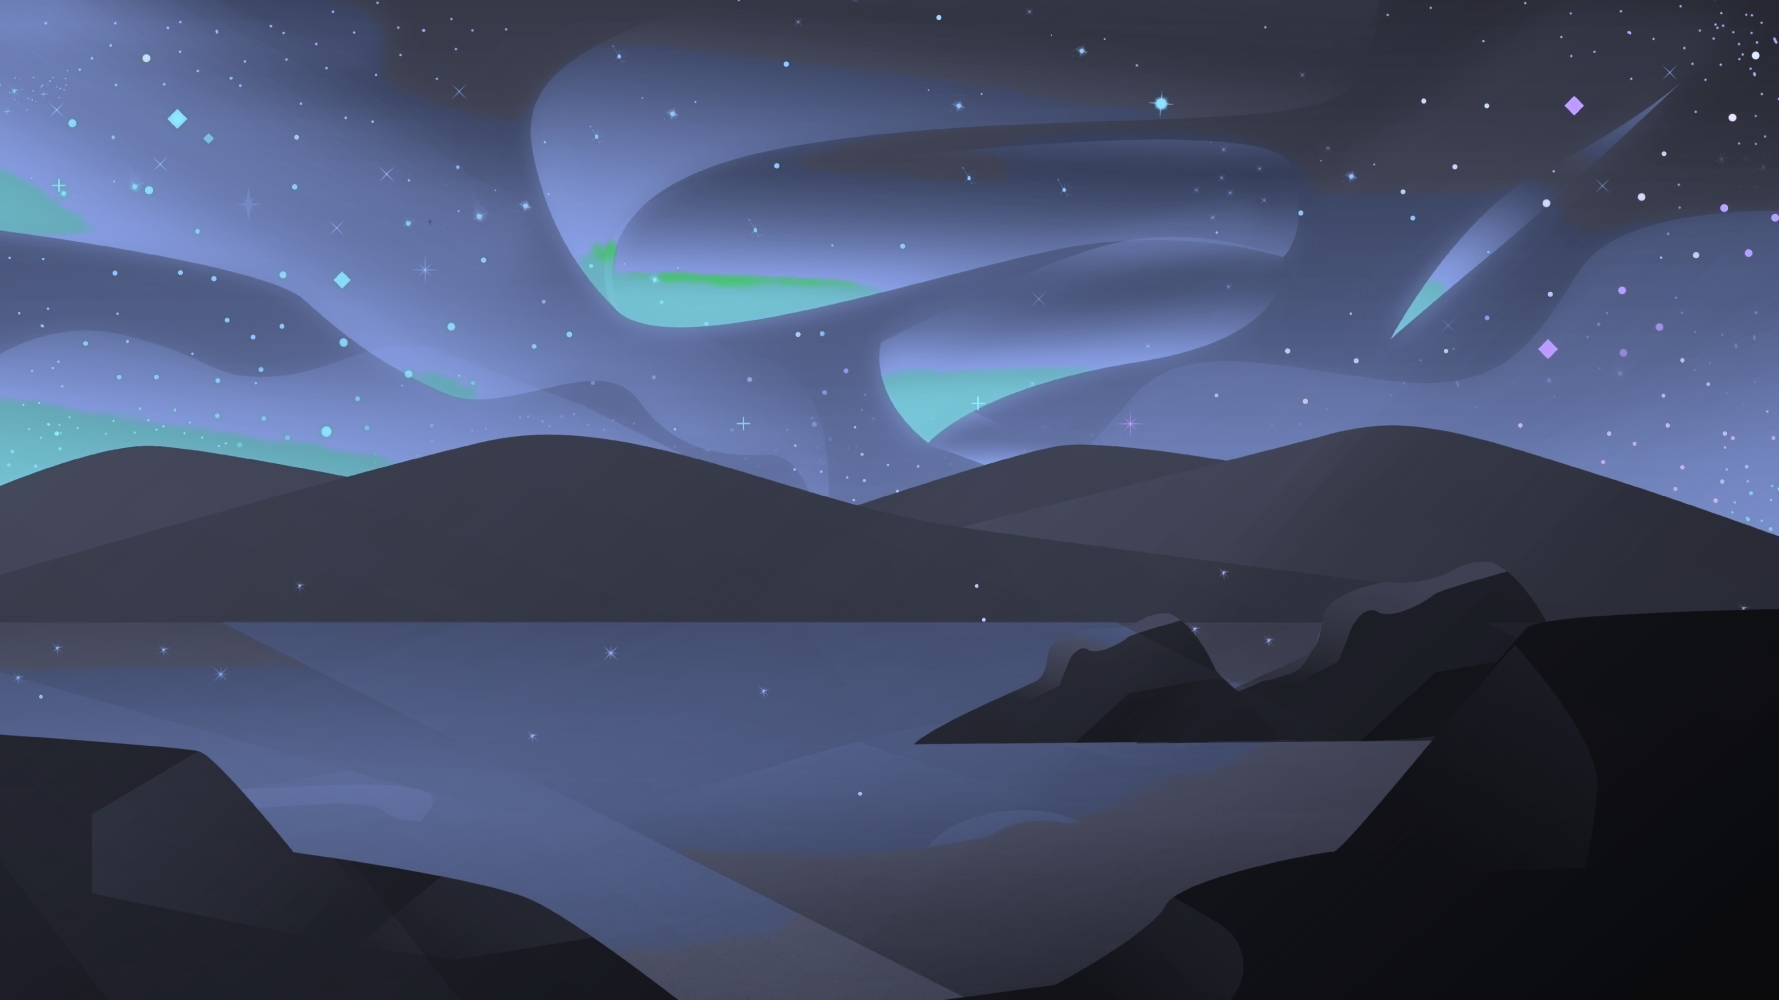
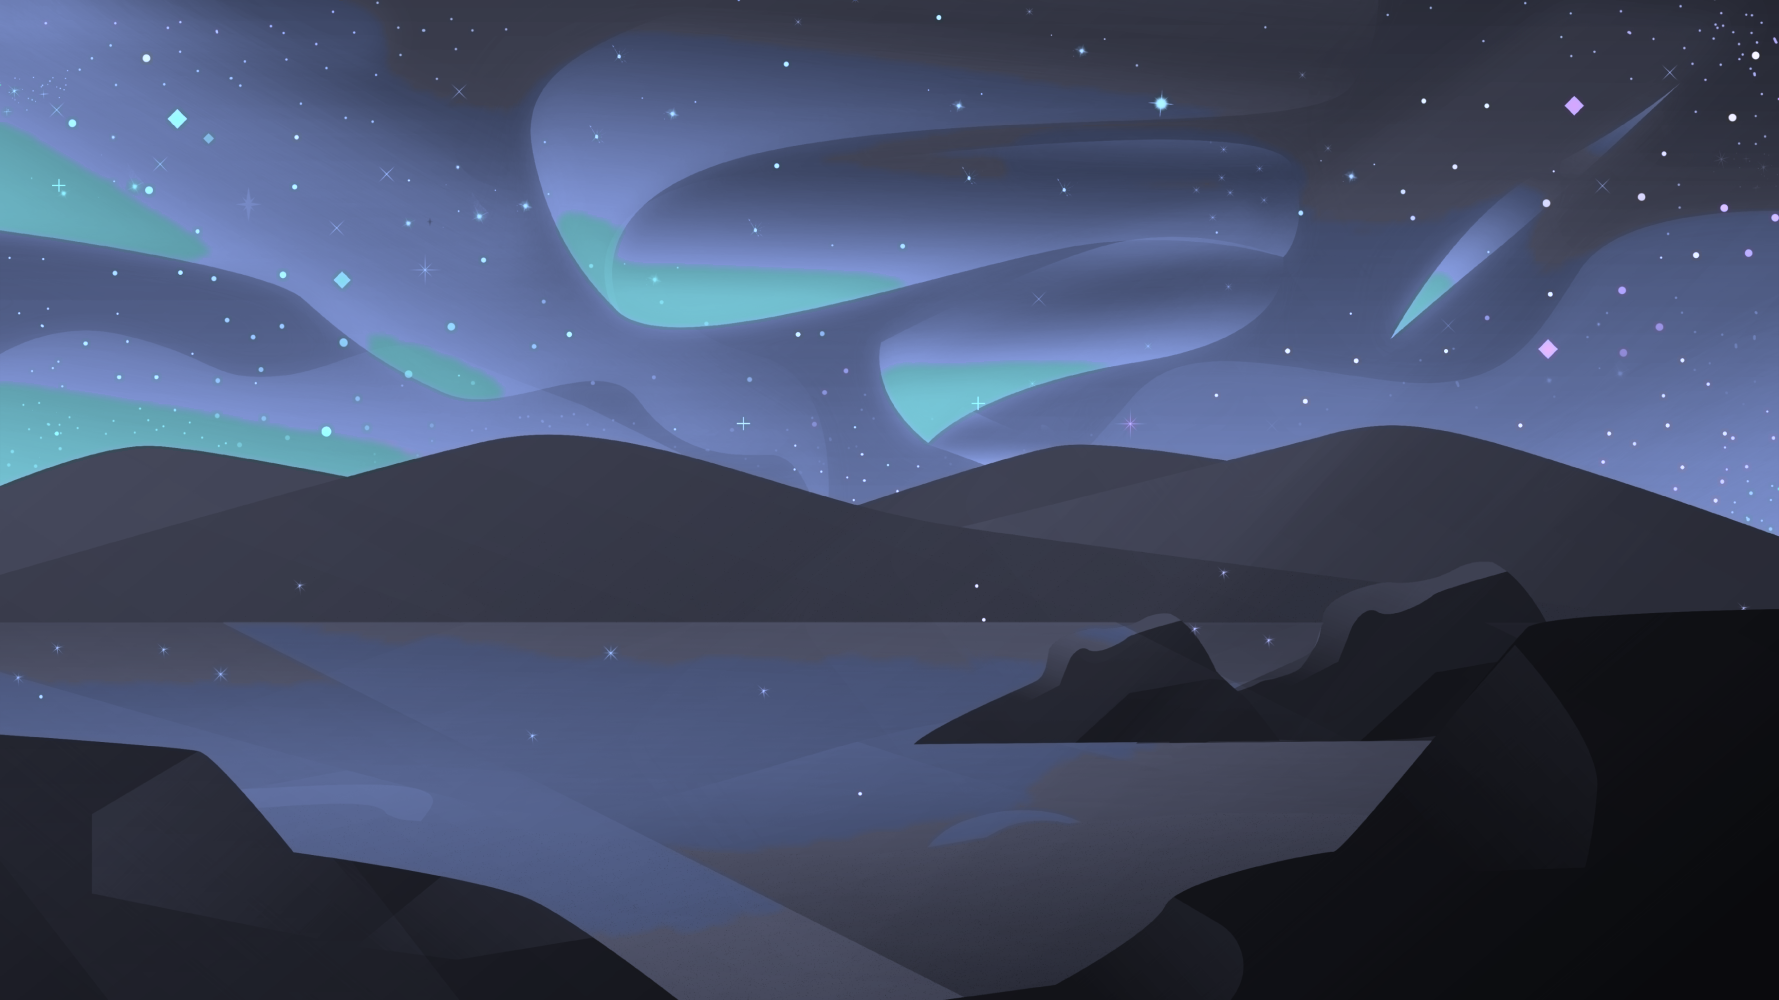
Config modified, themes added

diff --git a/converter.py b/converter.py
@@ -29,13 +29,16 @@ def get_filenames():
     return filenames
 
 
-def get_color(src_color, colors):
+def get_color(src_color, colors, quadratic_color_distance=False):
     src_color = src_color[:3]
     sr, sg, sb = src_color
     colors_diffs = []
     for dst_color in colors:
         dr, dg, db = dst_color
-        dist = sqrt(abs(sr - dr) ** 2 + abs(sg - dg) ** 2 + abs(sb - db) ** 2)
+        if quadratic_color_distance:
+            dist = sqrt(abs(sr - dr) ** 2 + abs(sg - dg) ** 2 + abs(sb - db) ** 2)
+        else:
+            dist = abs(sr - dr) + abs(sg - dg) + abs(sb - db)
         colors_diffs.append((dist, dst_color))
     fit_color = min(colors_diffs)[1]
     return fit_color
@@ -46,14 +49,16 @@ def get_brightness(color):
     return 0.2126 * r + 0.7152 * g + 0.0722 * b
 
 
-def tweak_pixel_brightness(src_color, fit_color):
+def tweak_pixel_brightness(src_color, fit_color, brightness_steps=False):
     src_color = src_color[:3]
     sr, sg, sb = src_color
     rr, rg, rb = fit_color
     src_luminance = get_brightness((sr, sg, sb))
     res_luminance = get_brightness((rr, rg, rb))
-    max_factor = 255 / max(rr, rg, rb)
-    factor = min(src_luminance / res_luminance, max_factor)
+    factor = src_luminance / res_luminance
+    if brightness_steps:
+        factor = round(factor, 1)
+
     rr = round(rr * factor)
     rg = round(rg * factor)
     rb = round(rb * factor)
@@ -63,7 +68,7 @@ def tweak_pixel_brightness(src_color, fit_color):
     return rr, rg, rb
 
 
-def tweak_image_brightness(img, result_img, pixels, res_pixels, filename='current image'):
+def tweak_image_brightness(img, result_img, pixels, res_pixels, filename='current image', brightness_steps=False):
     last_msg_val = 0
     for i in range(img.size[0]):
         progress_val = round((i + 1) / img.size[0] * 100)
@@ -73,7 +78,7 @@ def tweak_image_brightness(img, result_img, pixels, res_pixels, filename='curren
         for j in range(img.size[1]):
             src_color = pixels[i, j]
             fit_color = res_pixels[i, j]
-            res_pixels[i, j] = tweak_pixel_brightness(src_color, fit_color)
+            res_pixels[i, j] = tweak_pixel_brightness(src_color, fit_color, brightness_steps=brightness_steps)
     return result_img
 
 
@@ -118,7 +123,7 @@ def apply_blur(img, blur_map, blur_radius):
     return img
 
 
-def match_colors(img, pixels, colors, filename='current image'):
+def match_colors(img, pixels, colors, filename='current image', quadratic_color_distance=False):
     result_img = Image.new('RGB', img.size)
     res_pixels = result_img.load()
     last_msg_val = 0
@@ -129,24 +134,42 @@ def match_colors(img, pixels, colors, filename='current image'):
             print(f'Color matching for {filename} is {progress_val}% done')
         for j in range(img.size[1]):
             src_color = pixels[i, j]
-            res_pixels[i, j] = get_color(src_color, colors)
+            res_pixels[i, j] = get_color(src_color, colors, quadratic_color_distance=quadratic_color_distance)
     return result_img, res_pixels
 
 
-def process_image(filename, colors, palette=None, blur=True, blur_radius=3, blur_offset=10, debug=True):
+def process_image(filename,
+                  colors,
+                  palette=None,
+                  brightness_tweak=True,
+                  quadratic_color_distance=False,
+                  blur=True,
+                  blur_radius=3,
+                  blur_offset=10,
+                  brightness_steps=False,
+                  debug=True):
+    print('=' * 20)
     print(f'Image {filename} processing started!')
+    print(f'palette: {palette}')
+    print(f'brightness tweak: {brightness_tweak}')
+    print(f'quadratic color distance: {quadratic_color_distance}')
+    print(f'blur: {blur}')
     if blur:
-        print(f'(palette: {palette}, blur: {blur}, blur_radius: {blur_radius}, blur_offset: {blur_offset}, '
-              f'output: /{OUTPUT}, debug: {debug})')
-    else:
-        print(f'(palette: {palette}, blur: {blur}, output: /{OUTPUT}, debug: {debug})')
+        print(f'blur radius: {blur_radius}')
+        print(f'blur offset: {blur_offset}')
+    print(f'brightness steps: {brightness_steps}')
+    print(f'input: /{INPUT}')
+    print(f'output: /{OUTPUT}')
+    print(f'debug: {debug}')
+    print('=' * 20)
 
     img_file = Image.open(f'{INPUT}/{filename}')
     img = Image.new("RGB", img_file.size, (255, 255, 255))
     img.paste(img_file)  # 3 is the alpha channel
     pixels = img.load()
 
-    result_img, res_pixels = match_colors(img, pixels, colors, filename=filename)
+    result_img, res_pixels = match_colors(img, pixels, colors, filename=filename,
+                                          quadratic_color_distance=quadratic_color_distance)
     if debug:
         result_img.save(f'{OUTPUT}/{filename}-color_match-(1).png')
     if blur:
@@ -157,7 +180,9 @@ def process_image(filename, colors, palette=None, blur=True, blur_radius=3, blur
         result_img = apply_blur(result_img, blur_map, blur_radius=blur_radius)
         if debug:
             result_img.save(f'{OUTPUT}/{filename}-blurred_colors-(3).png')
-    result_img = tweak_image_brightness(img, result_img, pixels, res_pixels, filename=filename)
+    if brightness_tweak:
+        result_img = tweak_image_brightness(img, result_img, pixels, res_pixels,
+                                            filename=filename, brightness_steps=brightness_steps)
     return result_img
 
 
@@ -169,9 +194,12 @@ def main():
             filename,
             colors,
             palette=settings["palette"],
+            brightness_tweak=settings["brightness_tweak"],
+            quadratic_color_distance=settings["quadratic_color_distance"],
             blur=settings["blur"],
             blur_radius=settings["blur_radius"],
             blur_offset=settings["blur_offset"],
+            brightness_steps=settings["brightness_steps"],
             debug=settings["debug"],
         )
         print(f'{filename} processing complete!')
